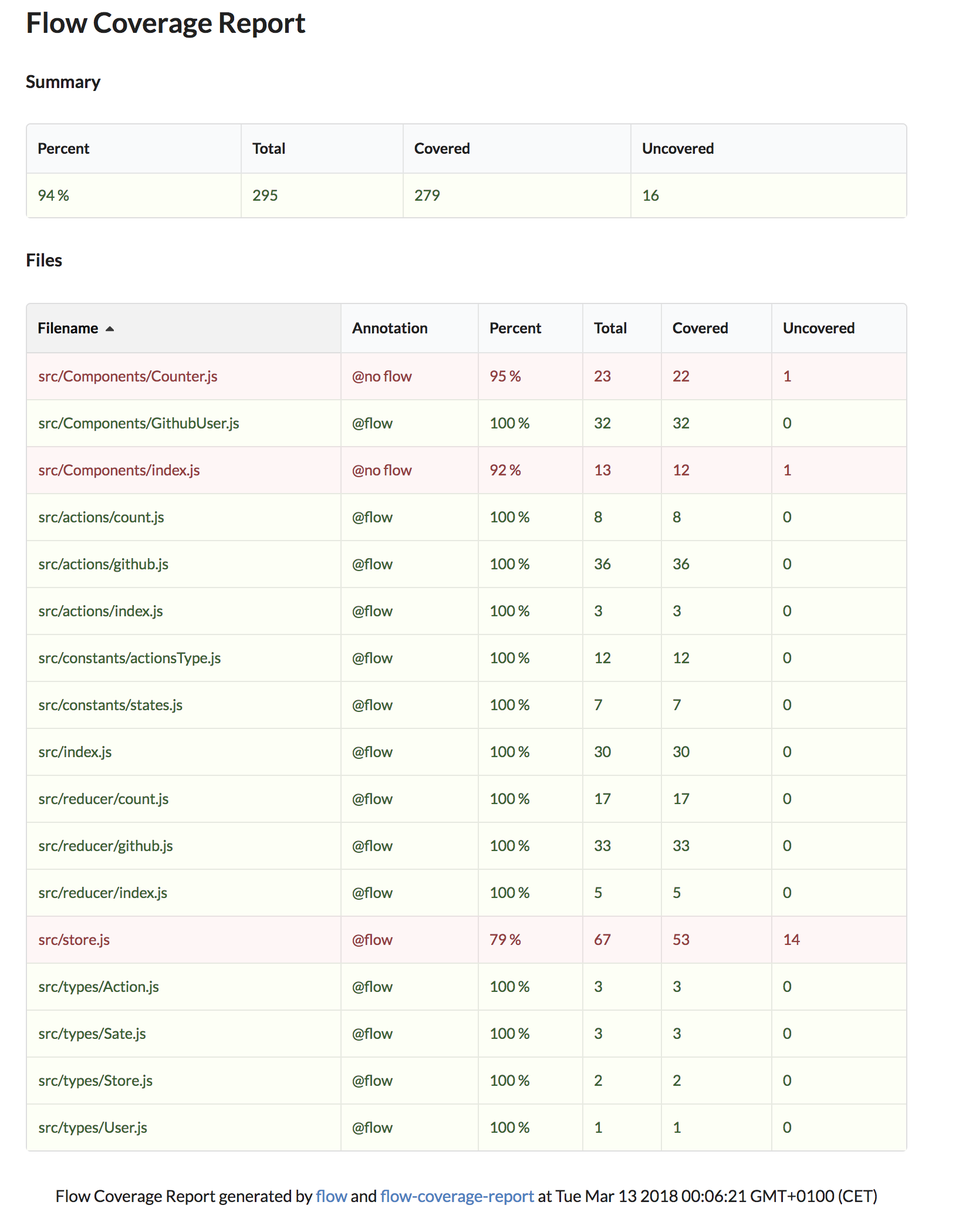
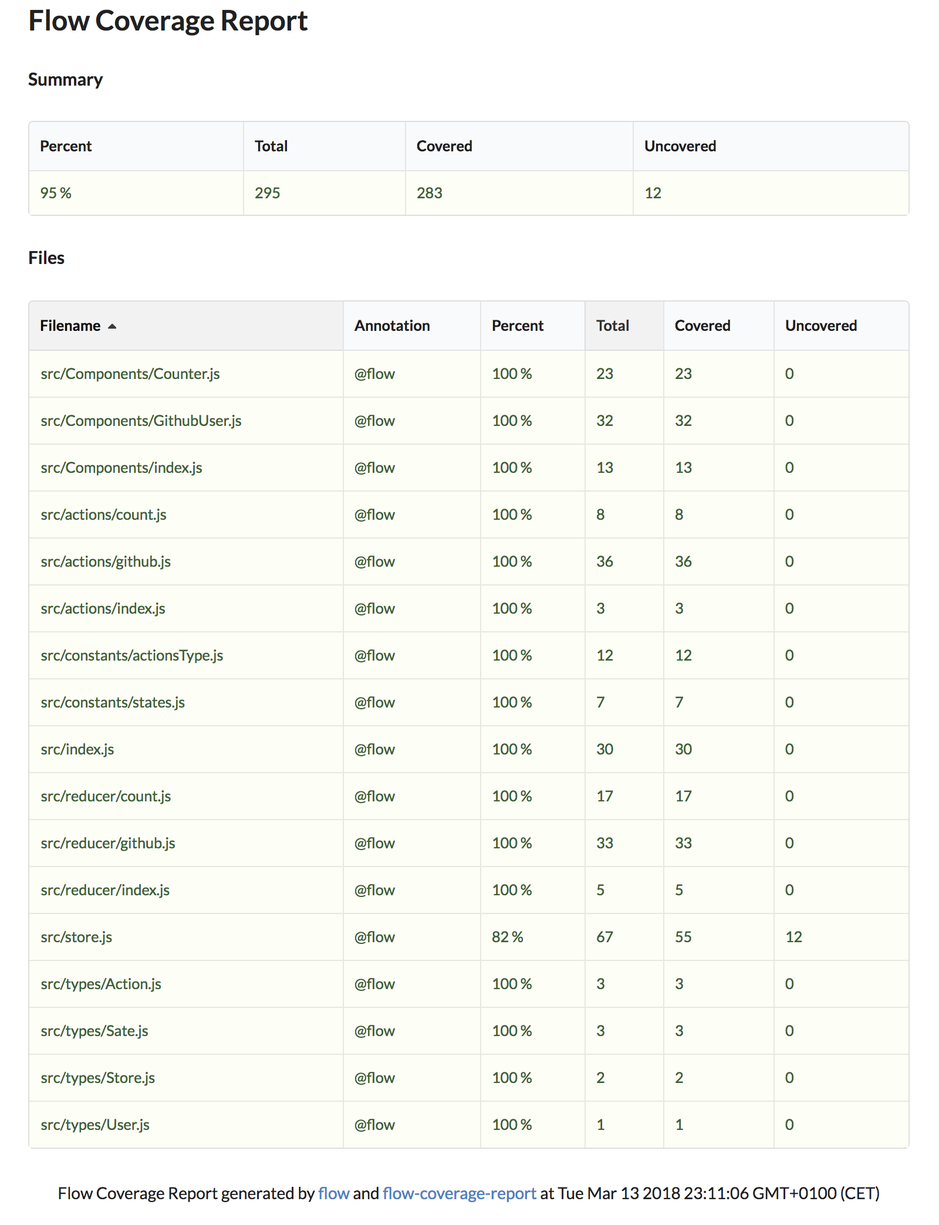
update flow config

diff --git a/flow-coverage/sourcefiles/src/store.js.html b/flow-coverage/sourcefiles/src/store.js.html
@@ -4,7 +4,7 @@
   border: 1px solid rgba(34,36,38,.15);
   height: auto;
 }
-</style></head><body><div class="ui grid container"><div class="row"><div class="twelve wide column"><h2 class="ui header"><a href="../../index.html" id="link-to-summary">Flow Coverage Report</a></h2></div></div><div class="row"><table class="ui small celled unstackable table"><thead><tr><th class="sorted ascending">Filename</th><th>Annotation</th><th>Percent</th><th>Total</th><th>Covered</th><th>Uncovered</th></tr></thead><tbody><tr class="negative"><td class="">src/store.js</td><td> @flow </td><td class=""><span>79 %</span></td><td> 67 </td><td> 53 </td><td> 14 </td></tr></tbody></table></div><div class="row ui one column centered grid"><div class="column" style="text-align:left;"><div class="row"><div class="ui form"><div class="fields"><div class="sixteen wide inline field"><select class="ui search dropdown uncovered-locations"><option value="">Uncovered Locations</option><option value="15">Start: 15,5 - End: 15,73</option><option value="15">Start: 15,11 - End: 15,22</option><option value="15">Start: 15,11 - End: 15,73</option><option value="23">Start: 23,32 - End: 23,66</option><option value="23">Start: 23,38 - End: 23,49</option><option value="23">Start: 23,38 - End: 23,66</option><option value="26">Start: 26,12 - End: 26,17</option><option value="26">Start: 26,35 - End: 26,40</option><option value="26">Start: 26,35 - End: 26,77</option><option value="27">Start: 27,9 - End: 27,14</option><option value="27">Start: 27,9 - End: 29,8</option><option value="32">Start: 32,53 - End: 32,57</option><option value="34">Start: 34,47 - End: 34,70</option><option value="37">Start: 37,5 - End: 40,6</option></select></div><div class="four wide inline field"><select class="ui search dropdown syntax-highlighting"><option value="es">ES6/ES7</option><option value="js">JavaScript</option><option value="no">None</option></select></div></div></div></div><textarea readonly="" id="file-content">// @flow
+</style></head><body><div class="ui grid container"><div class="row"><div class="twelve wide column"><h2 class="ui header"><a href="../../index.html" id="link-to-summary">Flow Coverage Report</a></h2></div></div><div class="row"><table class="ui small celled unstackable table"><thead><tr><th class="sorted ascending">Filename</th><th>Annotation</th><th>Percent</th><th>Total</th><th>Covered</th><th>Uncovered</th></tr></thead><tbody><tr class="positive"><td class="">src/store.js</td><td> @flow </td><td class=""><span>80 %</span></td><td> 67 </td><td> 54 </td><td> 13 </td></tr></tbody></table></div><div class="row ui one column centered grid"><div class="column" style="text-align:left;"><div class="row"><div class="ui form"><div class="fields"><div class="sixteen wide inline field"><select class="ui search dropdown uncovered-locations"><option value="">Uncovered Locations</option><option value="15">Start: 15,5 - End: 15,73</option><option value="15">Start: 15,11 - End: 15,22</option><option value="15">Start: 15,11 - End: 15,73</option><option value="23">Start: 23,32 - End: 23,66</option><option value="23">Start: 23,38 - End: 23,49</option><option value="23">Start: 23,38 - End: 23,66</option><option value="26">Start: 26,12 - End: 26,17</option><option value="26">Start: 26,35 - End: 26,40</option><option value="26">Start: 26,35 - End: 26,77</option><option value="27">Start: 27,9 - End: 27,14</option><option value="27">Start: 27,9 - End: 29,8</option><option value="32">Start: 32,53 - End: 32,57</option><option value="34">Start: 34,47 - End: 34,70</option></select></div><div class="four wide inline field"><select class="ui search dropdown syntax-highlighting"><option value="es">ES6/ES7</option><option value="js">JavaScript</option><option value="no">None</option></select></div></div></div></div><textarea readonly="" id="file-content">// @flow
 /* eslint-disable no-underscore-dangle, global-require */
 /* globals window */
 
@@ -50,4 +50,4 @@ export const configureStore: ConfigureStore = async () =&gt; {
 
   return store
 }
-</textarea></div></div><div class="row centered"><footer>Flow Coverage Report generated by<a href="https://flowtype.org"> flow </a>and<a href="https://github.com/rpl/flow-coverage-report"> flow-coverage-report </a>at Tue Mar 13 2018 00:06:21 GMT+0100 (CET)</footer></div></div><pre id="file-coverage-data" style="display:none;">{&quot;expressions&quot;:{&quot;covered_count&quot;:53,&quot;uncovered_count&quot;:14,&quot;uncovered_locs&quot;:[{&quot;source&quot;:&quot;/Users/igoreschalier/projects/RNredux/src/store.js&quot;,&quot;type&quot;:&quot;SourceFile&quot;,&quot;start&quot;:{&quot;line&quot;:15,&quot;column&quot;:5,&quot;offset&quot;:395},&quot;end&quot;:{&quot;line&quot;:15,&quot;column&quot;:73,&quot;offset&quot;:464}},{&quot;source&quot;:&quot;/Users/igoreschalier/projects/RNredux/src/store.js&quot;,&quot;type&quot;:&quot;SourceFile&quot;,&quot;start&quot;:{&quot;line&quot;:15,&quot;column&quot;:11,&quot;offset&quot;:401},&quot;end&quot;:{&quot;line&quot;:15,&quot;column&quot;:22,&quot;offset&quot;:413}},{&quot;source&quot;:&quot;/Users/igoreschalier/projects/RNredux/src/store.js&quot;,&quot;type&quot;:&quot;SourceFile&quot;,&quot;start&quot;:{&quot;line&quot;:15,&quot;column&quot;:11,&quot;offset&quot;:401},&quot;end&quot;:{&quot;line&quot;:15,&quot;column&quot;:73,&quot;offset&quot;:464}},{&quot;source&quot;:&quot;/Users/igoreschalier/projects/RNredux/src/store.js&quot;,&quot;type&quot;:&quot;SourceFile&quot;,&quot;start&quot;:{&quot;line&quot;:23,&quot;column&quot;:32,&quot;offset&quot;:647},&quot;end&quot;:{&quot;line&quot;:23,&quot;column&quot;:66,&quot;offset&quot;:682}},{&quot;source&quot;:&quot;/Users/igoreschalier/projects/RNredux/src/store.js&quot;,&quot;type&quot;:&quot;SourceFile&quot;,&quot;start&quot;:{&quot;line&quot;:23,&quot;column&quot;:38,&quot;offset&quot;:653},&quot;end&quot;:{&quot;line&quot;:23,&quot;column&quot;:49,&quot;offset&quot;:665}},{&quot;source&quot;:&quot;/Users/igoreschalier/projects/RNredux/src/store.js&quot;,&quot;type&quot;:&quot;SourceFile&quot;,&quot;start&quot;:{&quot;line&quot;:23,&quot;column&quot;:38,&quot;offset&quot;:653},&quot;end&quot;:{&quot;line&quot;:23,&quot;column&quot;:66,&quot;offset&quot;:682}},{&quot;source&quot;:&quot;/Users/igoreschalier/projects/RNredux/src/store.js&quot;,&quot;type&quot;:&quot;SourceFile&quot;,&quot;start&quot;:{&quot;line&quot;:26,&quot;column&quot;:12,&quot;offset&quot;:722},&quot;end&quot;:{&quot;line&quot;:26,&quot;column&quot;:17,&quot;offset&quot;:728}},{&quot;source&quot;:&quot;/Users/igoreschalier/projects/RNredux/src/store.js&quot;,&quot;type&quot;:&quot;SourceFile&quot;,&quot;start&quot;:{&quot;line&quot;:26,&quot;column&quot;:35,&quot;offset&quot;:745},&quot;end&quot;:{&quot;line&quot;:26,&quot;column&quot;:40,&quot;offset&quot;:751}},{&quot;source&quot;:&quot;/Users/igoreschalier/projects/RNredux/src/store.js&quot;,&quot;type&quot;:&quot;SourceFile&quot;,&quot;start&quot;:{&quot;line&quot;:26,&quot;column&quot;:35,&quot;offset&quot;:745},&quot;end&quot;:{&quot;line&quot;:26,&quot;column&quot;:77,&quot;offset&quot;:788}},{&quot;source&quot;:&quot;/Users/igoreschalier/projects/RNredux/src/store.js&quot;,&quot;type&quot;:&quot;SourceFile&quot;,&quot;start&quot;:{&quot;line&quot;:27,&quot;column&quot;:9,&quot;offset&quot;:797},&quot;end&quot;:{&quot;line&quot;:27,&quot;column&quot;:14,&quot;offset&quot;:803}},{&quot;source&quot;:&quot;/Users/igoreschalier/projects/RNredux/src/store.js&quot;,&quot;type&quot;:&quot;SourceFile&quot;,&quot;start&quot;:{&quot;line&quot;:27,&quot;column&quot;:9,&quot;offset&quot;:797},&quot;end&quot;:{&quot;line&quot;:29,&quot;column&quot;:8,&quot;offset&quot;:949}},{&quot;source&quot;:&quot;/Users/igoreschalier/projects/RNredux/src/store.js&quot;,&quot;type&quot;:&quot;SourceFile&quot;,&quot;start&quot;:{&quot;line&quot;:32,&quot;column&quot;:53,&quot;offset&quot;:1019},&quot;end&quot;:{&quot;line&quot;:32,&quot;column&quot;:57,&quot;offset&quot;:1024}},{&quot;source&quot;:&quot;/Users/igoreschalier/projects/RNredux/src/store.js&quot;,&quot;type&quot;:&quot;SourceFile&quot;,&quot;start&quot;:{&quot;line&quot;:34,&quot;column&quot;:47,&quot;offset&quot;:1074},&quot;end&quot;:{&quot;line&quot;:34,&quot;column&quot;:70,&quot;offset&quot;:1098}},{&quot;source&quot;:&quot;/Users/igoreschalier/projects/RNredux/src/store.js&quot;,&quot;type&quot;:&quot;SourceFile&quot;,&quot;start&quot;:{&quot;line&quot;:37,&quot;column&quot;:5,&quot;offset&quot;:1140},&quot;end&quot;:{&quot;line&quot;:40,&quot;column&quot;:6,&quot;offset&quot;:1275}}]},&quot;filename&quot;:&quot;src/store.js&quot;,&quot;annotation&quot;:&quot;flow&quot;,&quot;percent&quot;:79}</pre></body></html>
+</textarea></div></div><div class="row centered"><footer>Flow Coverage Report generated by<a href="https://flowtype.org"> flow </a>and<a href="https://github.com/rpl/flow-coverage-report"> flow-coverage-report </a>at Sun Mar 18 2018 08:42:35 GMT+0100 (CET)</footer></div></div><pre id="file-coverage-data" style="display:none;">{&quot;expressions&quot;:{&quot;covered_count&quot;:54,&quot;uncovered_count&quot;:13,&quot;uncovered_locs&quot;:[{&quot;source&quot;:&quot;/Users/igoreschalier/projects/RNredux/src/store.js&quot;,&quot;type&quot;:&quot;SourceFile&quot;,&quot;start&quot;:{&quot;line&quot;:15,&quot;column&quot;:5,&quot;offset&quot;:395},&quot;end&quot;:{&quot;line&quot;:15,&quot;column&quot;:73,&quot;offset&quot;:464}},{&quot;source&quot;:&quot;/Users/igoreschalier/projects/RNredux/src/store.js&quot;,&quot;type&quot;:&quot;SourceFile&quot;,&quot;start&quot;:{&quot;line&quot;:15,&quot;column&quot;:11,&quot;offset&quot;:401},&quot;end&quot;:{&quot;line&quot;:15,&quot;column&quot;:22,&quot;offset&quot;:413}},{&quot;source&quot;:&quot;/Users/igoreschalier/projects/RNredux/src/store.js&quot;,&quot;type&quot;:&quot;SourceFile&quot;,&quot;start&quot;:{&quot;line&quot;:15,&quot;column&quot;:11,&quot;offset&quot;:401},&quot;end&quot;:{&quot;line&quot;:15,&quot;column&quot;:73,&quot;offset&quot;:464}},{&quot;source&quot;:&quot;/Users/igoreschalier/projects/RNredux/src/store.js&quot;,&quot;type&quot;:&quot;SourceFile&quot;,&quot;start&quot;:{&quot;line&quot;:23,&quot;column&quot;:32,&quot;offset&quot;:647},&quot;end&quot;:{&quot;line&quot;:23,&quot;column&quot;:66,&quot;offset&quot;:682}},{&quot;source&quot;:&quot;/Users/igoreschalier/projects/RNredux/src/store.js&quot;,&quot;type&quot;:&quot;SourceFile&quot;,&quot;start&quot;:{&quot;line&quot;:23,&quot;column&quot;:38,&quot;offset&quot;:653},&quot;end&quot;:{&quot;line&quot;:23,&quot;column&quot;:49,&quot;offset&quot;:665}},{&quot;source&quot;:&quot;/Users/igoreschalier/projects/RNredux/src/store.js&quot;,&quot;type&quot;:&quot;SourceFile&quot;,&quot;start&quot;:{&quot;line&quot;:23,&quot;column&quot;:38,&quot;offset&quot;:653},&quot;end&quot;:{&quot;line&quot;:23,&quot;column&quot;:66,&quot;offset&quot;:682}},{&quot;source&quot;:&quot;/Users/igoreschalier/projects/RNredux/src/store.js&quot;,&quot;type&quot;:&quot;SourceFile&quot;,&quot;start&quot;:{&quot;line&quot;:26,&quot;column&quot;:12,&quot;offset&quot;:722},&quot;end&quot;:{&quot;line&quot;:26,&quot;column&quot;:17,&quot;offset&quot;:728}},{&quot;source&quot;:&quot;/Users/igoreschalier/projects/RNredux/src/store.js&quot;,&quot;type&quot;:&quot;SourceFile&quot;,&quot;start&quot;:{&quot;line&quot;:26,&quot;column&quot;:35,&quot;offset&quot;:745},&quot;end&quot;:{&quot;line&quot;:26,&quot;column&quot;:40,&quot;offset&quot;:751}},{&quot;source&quot;:&quot;/Users/igoreschalier/projects/RNredux/src/store.js&quot;,&quot;type&quot;:&quot;SourceFile&quot;,&quot;start&quot;:{&quot;line&quot;:26,&quot;column&quot;:35,&quot;offset&quot;:745},&quot;end&quot;:{&quot;line&quot;:26,&quot;column&quot;:77,&quot;offset&quot;:788}},{&quot;source&quot;:&quot;/Users/igoreschalier/projects/RNredux/src/store.js&quot;,&quot;type&quot;:&quot;SourceFile&quot;,&quot;start&quot;:{&quot;line&quot;:27,&quot;column&quot;:9,&quot;offset&quot;:797},&quot;end&quot;:{&quot;line&quot;:27,&quot;column&quot;:14,&quot;offset&quot;:803}},{&quot;source&quot;:&quot;/Users/igoreschalier/projects/RNredux/src/store.js&quot;,&quot;type&quot;:&quot;SourceFile&quot;,&quot;start&quot;:{&quot;line&quot;:27,&quot;column&quot;:9,&quot;offset&quot;:797},&quot;end&quot;:{&quot;line&quot;:29,&quot;column&quot;:8,&quot;offset&quot;:949}},{&quot;source&quot;:&quot;/Users/igoreschalier/projects/RNredux/src/store.js&quot;,&quot;type&quot;:&quot;SourceFile&quot;,&quot;start&quot;:{&quot;line&quot;:32,&quot;column&quot;:53,&quot;offset&quot;:1019},&quot;end&quot;:{&quot;line&quot;:32,&quot;column&quot;:57,&quot;offset&quot;:1024}},{&quot;source&quot;:&quot;/Users/igoreschalier/projects/RNredux/src/store.js&quot;,&quot;type&quot;:&quot;SourceFile&quot;,&quot;start&quot;:{&quot;line&quot;:34,&quot;column&quot;:47,&quot;offset&quot;:1074},&quot;end&quot;:{&quot;line&quot;:34,&quot;column&quot;:70,&quot;offset&quot;:1098}}]},&quot;filename&quot;:&quot;src/store.js&quot;,&quot;annotation&quot;:&quot;flow&quot;,&quot;percent&quot;:80}</pre></body></html>

diff --git a/flow-coverage/index.html b/flow-coverage/index.html
@@ -4,4 +4,4 @@
   border: 1px solid rgba(34,36,38,.15);
   height: auto;
 }
-</style></head><body><div class="ui grid container"><div class="row"><h2>Flow Coverage Report</h2></div><div class="row"><h4 class="ui header">Summary</h4><table class="ui small celled table"><thead><tr><th>Percent</th><th>Total</th><th>Covered</th><th>Uncovered</th></tr></thead><tbody><tr class="positive"><td>94 %</td><td>295</td><td>279</td><td>16</td></tr></tbody></table></div><div class="row"><h4 class="ui header">Files</h4><table id="files" class="ui small celled table sortable"><thead><tr><th class="sorted ascending">Filename</th><th>Annotation</th><th>Percent</th><th>Total</th><th>Covered</th><th>Uncovered</th></tr></thead><tbody><tr class="negative"><td class="selectable"><a href="sourcefiles/src/Components/Counter.js.html">src/Components/Counter.js</a></td><td> @no flow </td><td class=""><span>95 %</span></td><td> 23 </td><td> 22 </td><td> 1 </td></tr><tr class="positive"><td class="selectable"><a href="sourcefiles/src/Components/GithubUser.js.html">src/Components/GithubUser.js</a></td><td> @flow </td><td class=""><span>100 %</span></td><td> 32 </td><td> 32 </td><td> 0 </td></tr><tr class="negative"><td class="selectable"><a href="sourcefiles/src/Components/index.js.html">src/Components/index.js</a></td><td> @no flow </td><td class=""><span>92 %</span></td><td> 13 </td><td> 12 </td><td> 1 </td></tr><tr class="positive"><td class="selectable"><a href="sourcefiles/src/actions/count.js.html">src/actions/count.js</a></td><td> @flow </td><td class=""><span>100 %</span></td><td> 8 </td><td> 8 </td><td> 0 </td></tr><tr class="positive"><td class="selectable"><a href="sourcefiles/src/actions/github.js.html">src/actions/github.js</a></td><td> @flow </td><td class=""><span>100 %</span></td><td> 36 </td><td> 36 </td><td> 0 </td></tr><tr class="positive"><td class="selectable"><a href="sourcefiles/src/actions/index.js.html">src/actions/index.js</a></td><td> @flow </td><td class=""><span>100 %</span></td><td> 3 </td><td> 3 </td><td> 0 </td></tr><tr class="positive"><td class="selectable"><a href="sourcefiles/src/constants/actionsType.js.html">src/constants/actionsType.js</a></td><td> @flow </td><td class=""><span>100 %</span></td><td> 12 </td><td> 12 </td><td> 0 </td></tr><tr class="positive"><td class="selectable"><a href="sourcefiles/src/constants/states.js.html">src/constants/states.js</a></td><td> @flow </td><td class=""><span>100 %</span></td><td> 7 </td><td> 7 </td><td> 0 </td></tr><tr class="positive"><td class="selectable"><a href="sourcefiles/src/index.js.html">src/index.js</a></td><td> @flow </td><td class=""><span>100 %</span></td><td> 30 </td><td> 30 </td><td> 0 </td></tr><tr class="positive"><td class="selectable"><a href="sourcefiles/src/reducer/count.js.html">src/reducer/count.js</a></td><td> @flow </td><td class=""><span>100 %</span></td><td> 17 </td><td> 17 </td><td> 0 </td></tr><tr class="positive"><td class="selectable"><a href="sourcefiles/src/reducer/github.js.html">src/reducer/github.js</a></td><td> @flow </td><td class=""><span>100 %</span></td><td> 33 </td><td> 33 </td><td> 0 </td></tr><tr class="positive"><td class="selectable"><a href="sourcefiles/src/reducer/index.js.html">src/reducer/index.js</a></td><td> @flow </td><td class=""><span>100 %</span></td><td> 5 </td><td> 5 </td><td> 0 </td></tr><tr class="negative"><td class="selectable"><a href="sourcefiles/src/store.js.html">src/store.js</a></td><td> @flow </td><td class=""><span>79 %</span></td><td> 67 </td><td> 53 </td><td> 14 </td></tr><tr class="positive"><td class="selectable"><a href="sourcefiles/src/types/Action.js.html">src/types/Action.js</a></td><td> @flow </td><td class=""><span>100 %</span></td><td> 3 </td><td> 3 </td><td> 0 </td></tr><tr class="positive"><td class="selectable"><a href="sourcefiles/src/types/Sate.js.html">src/types/Sate.js</a></td><td> @flow </td><td class=""><span>100 %</span></td><td> 3 </td><td> 3 </td><td> 0 </td></tr><tr class="positive"><td class="selectable"><a href="sourcefiles/src/types/Store.js.html">src/types/Store.js</a></td><td> @flow </td><td class=""><span>100 %</span></td><td> 2 </td><td> 2 </td><td> 0 </td></tr><tr class="positive"><td class="selectable"><a href="sourcefiles/src/types/User.js.html">src/types/User.js</a></td><td> @flow </td><td class=""><span>100 %</span></td><td> 1 </td><td> 1 </td><td> 0 </td></tr></tbody></table></div><div class="row centered"><footer>Flow Coverage Report generated by<a href="https://flowtype.org"> flow </a>and<a href="https://github.com/rpl/flow-coverage-report"> flow-coverage-report </a>at Tue Mar 13 2018 00:06:21 GMT+0100 (CET)</footer></div></div></body></html>
+</style></head><body><div class="ui grid container"><div class="row"><h2>Flow Coverage Report</h2></div><div class="row"><h4 class="ui header">Summary</h4><table class="ui small celled table"><thead><tr><th>Percent</th><th>Total</th><th>Covered</th><th>Uncovered</th></tr></thead><tbody><tr class="positive"><td>95 %</td><td>294</td><td>281</td><td>13</td></tr></tbody></table></div><div class="row"><h4 class="ui header">Files</h4><table id="files" class="ui small celled table sortable"><thead><tr><th class="sorted ascending">Filename</th><th>Annotation</th><th>Percent</th><th>Total</th><th>Covered</th><th>Uncovered</th></tr></thead><tbody><tr class="positive"><td class="selectable"><a href="sourcefiles/src/Components/Counter.js.html">src/Components/Counter.js</a></td><td> @flow </td><td class=""><span>100 %</span></td><td> 23 </td><td> 23 </td><td> 0 </td></tr><tr class="positive"><td class="selectable"><a href="sourcefiles/src/Components/GithubUser.js.html">src/Components/GithubUser.js</a></td><td> @flow </td><td class=""><span>100 %</span></td><td> 32 </td><td> 32 </td><td> 0 </td></tr><tr class="positive"><td class="selectable"><a href="sourcefiles/src/Components/index.js.html">src/Components/index.js</a></td><td> @flow </td><td class=""><span>100 %</span></td><td> 13 </td><td> 13 </td><td> 0 </td></tr><tr class="positive"><td class="selectable"><a href="sourcefiles/src/actions/count.js.html">src/actions/count.js</a></td><td> @flow </td><td class=""><span>100 %</span></td><td> 8 </td><td> 8 </td><td> 0 </td></tr><tr class="positive"><td class="selectable"><a href="sourcefiles/src/actions/github.js.html">src/actions/github.js</a></td><td> @flow </td><td class=""><span>100 %</span></td><td> 35 </td><td> 35 </td><td> 0 </td></tr><tr class="positive"><td class="selectable"><a href="sourcefiles/src/actions/index.js.html">src/actions/index.js</a></td><td> @flow </td><td class=""><span>100 %</span></td><td> 3 </td><td> 3 </td><td> 0 </td></tr><tr class="positive"><td class="selectable"><a href="sourcefiles/src/constants/actionsType.js.html">src/constants/actionsType.js</a></td><td> @flow </td><td class=""><span>100 %</span></td><td> 12 </td><td> 12 </td><td> 0 </td></tr><tr class="positive"><td class="selectable"><a href="sourcefiles/src/constants/states.js.html">src/constants/states.js</a></td><td> @flow </td><td class=""><span>100 %</span></td><td> 7 </td><td> 7 </td><td> 0 </td></tr><tr class="positive"><td class="selectable"><a href="sourcefiles/src/index.js.html">src/index.js</a></td><td> @flow </td><td class=""><span>100 %</span></td><td> 30 </td><td> 30 </td><td> 0 </td></tr><tr class="positive"><td class="selectable"><a href="sourcefiles/src/reducer/count.js.html">src/reducer/count.js</a></td><td> @flow </td><td class=""><span>100 %</span></td><td> 17 </td><td> 17 </td><td> 0 </td></tr><tr class="positive"><td class="selectable"><a href="sourcefiles/src/reducer/github.js.html">src/reducer/github.js</a></td><td> @flow </td><td class=""><span>100 %</span></td><td> 33 </td><td> 33 </td><td> 0 </td></tr><tr class="positive"><td class="selectable"><a href="sourcefiles/src/reducer/index.js.html">src/reducer/index.js</a></td><td> @flow </td><td class=""><span>100 %</span></td><td> 5 </td><td> 5 </td><td> 0 </td></tr><tr class="positive"><td class="selectable"><a href="sourcefiles/src/store.js.html">src/store.js</a></td><td> @flow </td><td class=""><span>80 %</span></td><td> 67 </td><td> 54 </td><td> 13 </td></tr><tr class="positive"><td class="selectable"><a href="sourcefiles/src/types/Action.js.html">src/types/Action.js</a></td><td> @flow </td><td class=""><span>100 %</span></td><td> 3 </td><td> 3 </td><td> 0 </td></tr><tr class="positive"><td class="selectable"><a href="sourcefiles/src/types/Sate.js.html">src/types/Sate.js</a></td><td> @flow </td><td class=""><span>100 %</span></td><td> 3 </td><td> 3 </td><td> 0 </td></tr><tr class="positive"><td class="selectable"><a href="sourcefiles/src/types/Store.js.html">src/types/Store.js</a></td><td> @flow </td><td class=""><span>100 %</span></td><td> 2 </td><td> 2 </td><td> 0 </td></tr><tr class="positive"><td class="selectable"><a href="sourcefiles/src/types/User.js.html">src/types/User.js</a></td><td> @flow </td><td class=""><span>100 %</span></td><td> 1 </td><td> 1 </td><td> 0 </td></tr></tbody></table></div><div class="row centered"><footer>Flow Coverage Report generated by<a href="https://flowtype.org"> flow </a>and<a href="https://github.com/rpl/flow-coverage-report"> flow-coverage-report </a>at Sun Mar 18 2018 08:42:35 GMT+0100 (CET)</footer></div></div></body></html>

diff --git a/flow-coverage/sourcefiles/src/Components/Counter.js.html b/flow-coverage/sourcefiles/src/Components/Counter.js.html
@@ -4,16 +4,19 @@
   border: 1px solid rgba(34,36,38,.15);
   height: auto;
 }
-</style></head><body><div class="ui grid container"><div class="row"><div class="twelve wide column"><h2 class="ui header"><a href="../../../index.html" id="link-to-summary">Flow Coverage Report</a></h2></div></div><div class="row"><table class="ui small celled unstackable table"><thead><tr><th class="sorted ascending">Filename</th><th>Annotation</th><th>Percent</th><th>Total</th><th>Covered</th><th>Uncovered</th></tr></thead><tbody><tr class="negative"><td class="">src/Components/Counter.js</td><td> @no flow </td><td class=""><span>95 %</span></td><td> 23 </td><td> 22 </td><td> 1 </td></tr></tbody></table></div><div class="row ui one column centered grid"><div class="column" style="text-align:left;"><div class="row"><div class="ui form"><div class="fields"><div class="sixteen wide inline field"><select class="ui search dropdown uncovered-locations"><option value="">Uncovered Locations</option><option value="13">Start: 13,7 - End: 13,13</option></select></div><div class="four wide inline field"><select class="ui search dropdown syntax-highlighting"><option value="es">ES6/ES7</option><option value="js">JavaScript</option><option value="no">None</option></select></div></div></div></div><textarea readonly="" id="file-content">import React from &#x27;react&#x27;
+</style></head><body><div class="ui grid container"><div class="row"><div class="twelve wide column"><h2 class="ui header"><a href="../../../index.html" id="link-to-summary">Flow Coverage Report</a></h2></div></div><div class="row"><table class="ui small celled unstackable table"><thead><tr><th class="sorted ascending">Filename</th><th>Annotation</th><th>Percent</th><th>Total</th><th>Covered</th><th>Uncovered</th></tr></thead><tbody><tr class="positive"><td class="">src/Components/Counter.js</td><td> @flow </td><td class=""><span>100 %</span></td><td> 23 </td><td> 23 </td><td> 0 </td></tr></tbody></table></div><div class="row ui one column centered grid"><div class="column" style="text-align:left;"><div class="row"><div class="ui form"><div class="fields"><div class="sixteen wide inline field"><select class="ui search dropdown uncovered-locations"><option value="">Uncovered Locations</option></select></div><div class="four wide inline field"><select class="ui search dropdown syntax-highlighting"><option value="es">ES6/ES7</option><option value="js">JavaScript</option><option value="no">None</option></select></div></div></div></div><textarea readonly="" id="file-content">// @flow
+
+import React from &#x27;react&#x27;
 import { View, Text, Button } from &#x27;react-native&#x27;
 import { connect } from &#x27;react-redux&#x27;
 import actions from &#x27;../actions&#x27;
 import type { State } from &#x27;../types/Sate&#x27;
+import type { GenericAction } from &#x27;../types/Action&#x27;
 
 type Props = {
   count: number,
-  increment: () =&gt; void,
-  decrement: () =&gt; void,
+  increment: () =&gt; GenericAction,
+  decrement: () =&gt; GenericAction,
 }
 
 const Counter = ({ count, increment, decrement }: Props) =&gt; (
@@ -32,4 +35,4 @@ export default connect(
     ...actions,
   },
 )(Counter)
-</textarea></div></div><div class="row centered"><footer>Flow Coverage Report generated by<a href="https://flowtype.org"> flow </a>and<a href="https://github.com/rpl/flow-coverage-report"> flow-coverage-report </a>at Tue Mar 13 2018 00:06:21 GMT+0100 (CET)</footer></div></div><pre id="file-coverage-data" style="display:none;">{&quot;expressions&quot;:{&quot;covered_count&quot;:22,&quot;uncovered_count&quot;:1,&quot;uncovered_locs&quot;:[{&quot;source&quot;:&quot;/Users/igoreschalier/projects/RNredux/src/Components/Counter.js&quot;,&quot;type&quot;:&quot;SourceFile&quot;,&quot;start&quot;:{&quot;line&quot;:13,&quot;column&quot;:7,&quot;offset&quot;:282},&quot;end&quot;:{&quot;line&quot;:13,&quot;column&quot;:13,&quot;offset&quot;:289}}]},&quot;filename&quot;:&quot;src/Components/Counter.js&quot;,&quot;annotation&quot;:&quot;no flow&quot;,&quot;percent&quot;:95}</pre></body></html>
+</textarea></div></div><div class="row centered"><footer>Flow Coverage Report generated by<a href="https://flowtype.org"> flow </a>and<a href="https://github.com/rpl/flow-coverage-report"> flow-coverage-report </a>at Sun Mar 18 2018 08:42:35 GMT+0100 (CET)</footer></div></div><pre id="file-coverage-data" style="display:none;">{&quot;expressions&quot;:{&quot;covered_count&quot;:23,&quot;uncovered_count&quot;:0,&quot;uncovered_locs&quot;:[]},&quot;filename&quot;:&quot;src/Components/Counter.js&quot;,&quot;annotation&quot;:&quot;flow&quot;,&quot;percent&quot;:100}</pre></body></html>

diff --git a/flow-coverage/sourcefiles/src/actions/github.js.html b/flow-coverage/sourcefiles/src/actions/github.js.html
@@ -4,7 +4,7 @@
   border: 1px solid rgba(34,36,38,.15);
   height: auto;
 }
-</style></head><body><div class="ui grid container"><div class="row"><div class="twelve wide column"><h2 class="ui header"><a href="../../../index.html" id="link-to-summary">Flow Coverage Report</a></h2></div></div><div class="row"><table class="ui small celled unstackable table"><thead><tr><th class="sorted ascending">Filename</th><th>Annotation</th><th>Percent</th><th>Total</th><th>Covered</th><th>Uncovered</th></tr></thead><tbody><tr class="positive"><td class="">src/actions/github.js</td><td> @flow </td><td class=""><span>100 %</span></td><td> 36 </td><td> 36 </td><td> 0 </td></tr></tbody></table></div><div class="row ui one column centered grid"><div class="column" style="text-align:left;"><div class="row"><div class="ui form"><div class="fields"><div class="sixteen wide inline field"><select class="ui search dropdown uncovered-locations"><option value="">Uncovered Locations</option></select></div><div class="four wide inline field"><select class="ui search dropdown syntax-highlighting"><option value="es">ES6/ES7</option><option value="js">JavaScript</option><option value="no">None</option></select></div></div></div></div><textarea readonly="" id="file-content">// @flow
+</style></head><body><div class="ui grid container"><div class="row"><div class="twelve wide column"><h2 class="ui header"><a href="../../../index.html" id="link-to-summary">Flow Coverage Report</a></h2></div></div><div class="row"><table class="ui small celled unstackable table"><thead><tr><th class="sorted ascending">Filename</th><th>Annotation</th><th>Percent</th><th>Total</th><th>Covered</th><th>Uncovered</th></tr></thead><tbody><tr class="positive"><td class="">src/actions/github.js</td><td> @flow </td><td class=""><span>100 %</span></td><td> 35 </td><td> 35 </td><td> 0 </td></tr></tbody></table></div><div class="row ui one column centered grid"><div class="column" style="text-align:left;"><div class="row"><div class="ui form"><div class="fields"><div class="sixteen wide inline field"><select class="ui search dropdown uncovered-locations"><option value="">Uncovered Locations</option></select></div><div class="four wide inline field"><select class="ui search dropdown syntax-highlighting"><option value="es">ES6/ES7</option><option value="js">JavaScript</option><option value="no">None</option></select></div></div></div></div><textarea readonly="" id="file-content">// @flow
 
 import {
   GITHUB_USER_LOADING,
@@ -12,10 +12,11 @@ import {
   GITHUB_USER_ERROR,
   GITHUB_USER_CLEAR,
 } from &#x27;../constants/actionsType&#x27;
+import type { GenericAction, GithubAction } from &#x27;../types/Action&#x27;
 
-type Action = { +type: string } | { +type: string, user: {} }
-
-type FetchGithubUser = (username: string) =&gt; (dispatch: (Action) =&gt; void) =&gt; Promise&lt;any&gt;
+export type FetchGithubUser = (
+  username: string,
+) =&gt; (dispatch: (GithubAction | GenericAction) =&gt; void) =&gt; Promise&lt;any&gt;
 
 export const fetchGithubUser: FetchGithubUser = username =&gt; async (dispatch) =&gt; {
   dispatch({ type: GITHUB_USER_LOADING })
@@ -36,4 +37,4 @@ export const fetchGithubUser: FetchGithubUser = username =&gt; async (dispatch) 
 }
 
 export const clearGithubUser = () =&gt; ({ type: GITHUB_USER_CLEAR })
-</textarea></div></div><div class="row centered"><footer>Flow Coverage Report generated by<a href="https://flowtype.org"> flow </a>and<a href="https://github.com/rpl/flow-coverage-report"> flow-coverage-report </a>at Tue Mar 13 2018 00:06:21 GMT+0100 (CET)</footer></div></div><pre id="file-coverage-data" style="display:none;">{&quot;expressions&quot;:{&quot;covered_count&quot;:36,&quot;uncovered_count&quot;:0,&quot;uncovered_locs&quot;:[]},&quot;filename&quot;:&quot;src/actions/github.js&quot;,&quot;annotation&quot;:&quot;flow&quot;,&quot;percent&quot;:100}</pre></body></html>
+</textarea></div></div><div class="row centered"><footer>Flow Coverage Report generated by<a href="https://flowtype.org"> flow </a>and<a href="https://github.com/rpl/flow-coverage-report"> flow-coverage-report </a>at Sun Mar 18 2018 08:42:35 GMT+0100 (CET)</footer></div></div><pre id="file-coverage-data" style="display:none;">{&quot;expressions&quot;:{&quot;covered_count&quot;:35,&quot;uncovered_count&quot;:0,&quot;uncovered_locs&quot;:[]},&quot;filename&quot;:&quot;src/actions/github.js&quot;,&quot;annotation&quot;:&quot;flow&quot;,&quot;percent&quot;:100}</pre></body></html>

diff --git a/flow-coverage/sourcefiles/src/Components/index.js.html b/flow-coverage/sourcefiles/src/Components/index.js.html
@@ -4,7 +4,9 @@
   border: 1px solid rgba(34,36,38,.15);
   height: auto;
 }
-</style></head><body><div class="ui grid container"><div class="row"><div class="twelve wide column"><h2 class="ui header"><a href="../../../index.html" id="link-to-summary">Flow Coverage Report</a></h2></div></div><div class="row"><table class="ui small celled unstackable table"><thead><tr><th class="sorted ascending">Filename</th><th>Annotation</th><th>Percent</th><th>Total</th><th>Covered</th><th>Uncovered</th></tr></thead><tbody><tr class="negative"><td class="">src/Components/index.js</td><td> @no flow </td><td class=""><span>92 %</span></td><td> 13 </td><td> 12 </td><td> 1 </td></tr></tbody></table></div><div class="row ui one column centered grid"><div class="column" style="text-align:left;"><div class="row"><div class="ui form"><div class="fields"><div class="sixteen wide inline field"><select class="ui search dropdown uncovered-locations"><option value="">Uncovered Locations</option><option value="6">Start: 6,7 - End: 6,9</option></select></div><div class="four wide inline field"><select class="ui search dropdown syntax-highlighting"><option value="es">ES6/ES7</option><option value="js">JavaScript</option><option value="no">None</option></select></div></div></div></div><textarea readonly="" id="file-content">import React from &#x27;react&#x27;
+</style></head><body><div class="ui grid container"><div class="row"><div class="twelve wide column"><h2 class="ui header"><a href="../../../index.html" id="link-to-summary">Flow Coverage Report</a></h2></div></div><div class="row"><table class="ui small celled unstackable table"><thead><tr><th class="sorted ascending">Filename</th><th>Annotation</th><th>Percent</th><th>Total</th><th>Covered</th><th>Uncovered</th></tr></thead><tbody><tr class="positive"><td class="">src/Components/index.js</td><td> @flow </td><td class=""><span>100 %</span></td><td> 13 </td><td> 13 </td><td> 0 </td></tr></tbody></table></div><div class="row ui one column centered grid"><div class="column" style="text-align:left;"><div class="row"><div class="ui form"><div class="fields"><div class="sixteen wide inline field"><select class="ui search dropdown uncovered-locations"><option value="">Uncovered Locations</option></select></div><div class="four wide inline field"><select class="ui search dropdown syntax-highlighting"><option value="es">ES6/ES7</option><option value="js">JavaScript</option><option value="no">None</option></select></div></div></div></div><textarea readonly="" id="file-content">// @flow
+
+import React from &#x27;react&#x27;
 import { View, Image } from &#x27;react-native&#x27;
 import Counter from &#x27;./Counter&#x27;
 import GithubUser from &#x27;./GithubUser&#x27;
@@ -24,4 +26,4 @@ const App = () =&gt; (
 )
 
 export default App
-</textarea></div></div><div class="row centered"><footer>Flow Coverage Report generated by<a href="https://flowtype.org"> flow </a>and<a href="https://github.com/rpl/flow-coverage-report"> flow-coverage-report </a>at Tue Mar 13 2018 00:06:21 GMT+0100 (CET)</footer></div></div><pre id="file-coverage-data" style="display:none;">{&quot;expressions&quot;:{&quot;covered_count&quot;:12,&quot;uncovered_count&quot;:1,&quot;uncovered_locs&quot;:[{&quot;source&quot;:&quot;/Users/igoreschalier/projects/RNredux/src/Components/index.js&quot;,&quot;type&quot;:&quot;SourceFile&quot;,&quot;start&quot;:{&quot;line&quot;:6,&quot;column&quot;:7,&quot;offset&quot;:146},&quot;end&quot;:{&quot;line&quot;:6,&quot;column&quot;:9,&quot;offset&quot;:149}}]},&quot;filename&quot;:&quot;src/Components/index.js&quot;,&quot;annotation&quot;:&quot;no flow&quot;,&quot;percent&quot;:92}</pre></body></html>
+</textarea></div></div><div class="row centered"><footer>Flow Coverage Report generated by<a href="https://flowtype.org"> flow </a>and<a href="https://github.com/rpl/flow-coverage-report"> flow-coverage-report </a>at Sun Mar 18 2018 08:42:35 GMT+0100 (CET)</footer></div></div><pre id="file-coverage-data" style="display:none;">{&quot;expressions&quot;:{&quot;covered_count&quot;:13,&quot;uncovered_count&quot;:0,&quot;uncovered_locs&quot;:[]},&quot;filename&quot;:&quot;src/Components/index.js&quot;,&quot;annotation&quot;:&quot;flow&quot;,&quot;percent&quot;:100}</pre></body></html>

diff --git a/flow-coverage/sourcefiles/src/Components/GithubUser.js.html b/flow-coverage/sourcefiles/src/Components/GithubUser.js.html
@@ -10,14 +10,16 @@ import React from &#x27;react&#x27;
 import { View, Button, Text } from &#x27;react-native&#x27;
 import { connect } from &#x27;react-redux&#x27;
 import actions from &#x27;../actions&#x27;
+import type { FetchGithubUser } from &#x27;../actions/github&#x27;
 import type { State } from &#x27;../types/Sate&#x27;
+import type { GenericAction } from &#x27;../types/Action&#x27;
 
 type Props = {
   user: {
     login: string,
   },
-  fetchGithubUser: (username: string) =&gt; void,
-  clearGithubUser: () =&gt; void,
+  fetchGithubUser: FetchGithubUser,
+  clearGithubUser: () =&gt; GenericAction,
 }
 
 const GithubUser = ({ user, fetchGithubUser, clearGithubUser }: Props) =&gt; (
@@ -31,4 +33,4 @@ const GithubUser = ({ user, fetchGithubUser, clearGithubUser }: Props) =&gt; (
 export default connect(({ github }: State) =&gt; ({ user: github.user }), {
   ...actions,
 })(GithubUser)
-</textarea></div></div><div class="row centered"><footer>Flow Coverage Report generated by<a href="https://flowtype.org"> flow </a>and<a href="https://github.com/rpl/flow-coverage-report"> flow-coverage-report </a>at Tue Mar 13 2018 00:06:21 GMT+0100 (CET)</footer></div></div><pre id="file-coverage-data" style="display:none;">{&quot;expressions&quot;:{&quot;covered_count&quot;:32,&quot;uncovered_count&quot;:0,&quot;uncovered_locs&quot;:[]},&quot;filename&quot;:&quot;src/Components/GithubUser.js&quot;,&quot;annotation&quot;:&quot;flow&quot;,&quot;percent&quot;:100}</pre></body></html>
+</textarea></div></div><div class="row centered"><footer>Flow Coverage Report generated by<a href="https://flowtype.org"> flow </a>and<a href="https://github.com/rpl/flow-coverage-report"> flow-coverage-report </a>at Sun Mar 18 2018 08:42:35 GMT+0100 (CET)</footer></div></div><pre id="file-coverage-data" style="display:none;">{&quot;expressions&quot;:{&quot;covered_count&quot;:32,&quot;uncovered_count&quot;:0,&quot;uncovered_locs&quot;:[]},&quot;filename&quot;:&quot;src/Components/GithubUser.js&quot;,&quot;annotation&quot;:&quot;flow&quot;,&quot;percent&quot;:100}</pre></body></html>

diff --git a/flow-coverage/sourcefiles/src/constants/actionsType.js.html b/flow-coverage/sourcefiles/src/constants/actionsType.js.html
@@ -14,4 +14,4 @@ export const GITHUB_USER_SUCCESS: string = &#x27;FETCH/SUCCESS/GITHUB/USER&#x27;
 export const GITHUB_USER_ERROR: string = &#x27;FETCH/ERROR/GITHUB/USER&#x27;
 
 export const GITHUB_USER_CLEAR: string = &#x27;CLEAR/GITHUB/USER&#x27;
-</textarea></div></div><div class="row centered"><footer>Flow Coverage Report generated by<a href="https://flowtype.org"> flow </a>and<a href="https://github.com/rpl/flow-coverage-report"> flow-coverage-report </a>at Tue Mar 13 2018 00:06:21 GMT+0100 (CET)</footer></div></div><pre id="file-coverage-data" style="display:none;">{&quot;expressions&quot;:{&quot;covered_count&quot;:12,&quot;uncovered_count&quot;:0,&quot;uncovered_locs&quot;:[]},&quot;filename&quot;:&quot;src/constants/actionsType.js&quot;,&quot;annotation&quot;:&quot;flow&quot;,&quot;percent&quot;:100}</pre></body></html>
+</textarea></div></div><div class="row centered"><footer>Flow Coverage Report generated by<a href="https://flowtype.org"> flow </a>and<a href="https://github.com/rpl/flow-coverage-report"> flow-coverage-report </a>at Sun Mar 18 2018 08:42:35 GMT+0100 (CET)</footer></div></div><pre id="file-coverage-data" style="display:none;">{&quot;expressions&quot;:{&quot;covered_count&quot;:12,&quot;uncovered_count&quot;:0,&quot;uncovered_locs&quot;:[]},&quot;filename&quot;:&quot;src/constants/actionsType.js&quot;,&quot;annotation&quot;:&quot;flow&quot;,&quot;percent&quot;:100}</pre></body></html>

diff --git a/flow-coverage/sourcefiles/src/types/Store.js.html b/flow-coverage/sourcefiles/src/types/Store.js.html
@@ -13,4 +13,4 @@ import type { Action } from &#x27;./Action&#x27;
 // Use State type cause some error with flow-typed redux
 export type Store = ReduxStore&lt;{}, Action&gt;
 export type ConfigureStore = () =&gt; Promise&lt;Store&gt;
-</textarea></div></div><div class="row centered"><footer>Flow Coverage Report generated by<a href="https://flowtype.org"> flow </a>and<a href="https://github.com/rpl/flow-coverage-report"> flow-coverage-report </a>at Tue Mar 13 2018 00:06:21 GMT+0100 (CET)</footer></div></div><pre id="file-coverage-data" style="display:none;">{&quot;expressions&quot;:{&quot;covered_count&quot;:2,&quot;uncovered_count&quot;:0,&quot;uncovered_locs&quot;:[]},&quot;filename&quot;:&quot;src/types/Store.js&quot;,&quot;annotation&quot;:&quot;flow&quot;,&quot;percent&quot;:100}</pre></body></html>
+</textarea></div></div><div class="row centered"><footer>Flow Coverage Report generated by<a href="https://flowtype.org"> flow </a>and<a href="https://github.com/rpl/flow-coverage-report"> flow-coverage-report </a>at Sun Mar 18 2018 08:42:35 GMT+0100 (CET)</footer></div></div><pre id="file-coverage-data" style="display:none;">{&quot;expressions&quot;:{&quot;covered_count&quot;:2,&quot;uncovered_count&quot;:0,&quot;uncovered_locs&quot;:[]},&quot;filename&quot;:&quot;src/types/Store.js&quot;,&quot;annotation&quot;:&quot;flow&quot;,&quot;percent&quot;:100}</pre></body></html>

diff --git a/flow-coverage/sourcefiles/src/types/Action.js.html b/flow-coverage/sourcefiles/src/types/Action.js.html
@@ -12,4 +12,4 @@ export type GenericAction = { type: string }
 export type GithubAction = { type: string, user: User }
 
 export type Action = GithubAction | GenericAction
-</textarea></div></div><div class="row centered"><footer>Flow Coverage Report generated by<a href="https://flowtype.org"> flow </a>and<a href="https://github.com/rpl/flow-coverage-report"> flow-coverage-report </a>at Tue Mar 13 2018 00:06:21 GMT+0100 (CET)</footer></div></div><pre id="file-coverage-data" style="display:none;">{&quot;expressions&quot;:{&quot;covered_count&quot;:3,&quot;uncovered_count&quot;:0,&quot;uncovered_locs&quot;:[]},&quot;filename&quot;:&quot;src/types/Action.js&quot;,&quot;annotation&quot;:&quot;flow&quot;,&quot;percent&quot;:100}</pre></body></html>
+</textarea></div></div><div class="row centered"><footer>Flow Coverage Report generated by<a href="https://flowtype.org"> flow </a>and<a href="https://github.com/rpl/flow-coverage-report"> flow-coverage-report </a>at Sun Mar 18 2018 08:42:35 GMT+0100 (CET)</footer></div></div><pre id="file-coverage-data" style="display:none;">{&quot;expressions&quot;:{&quot;covered_count&quot;:3,&quot;uncovered_count&quot;:0,&quot;uncovered_locs&quot;:[]},&quot;filename&quot;:&quot;src/types/Action.js&quot;,&quot;annotation&quot;:&quot;flow&quot;,&quot;percent&quot;:100}</pre></body></html>

diff --git a/flow-coverage/sourcefiles/src/actions/count.js.html b/flow-coverage/sourcefiles/src/actions/count.js.html
@@ -16,4 +16,4 @@ export const increment = (): Action =&gt; ({
 export const decrement = (): Action =&gt; ({
   type: DECREMENT,
 })
-</textarea></div></div><div class="row centered"><footer>Flow Coverage Report generated by<a href="https://flowtype.org"> flow </a>and<a href="https://github.com/rpl/flow-coverage-report"> flow-coverage-report </a>at Tue Mar 13 2018 00:06:21 GMT+0100 (CET)</footer></div></div><pre id="file-coverage-data" style="display:none;">{&quot;expressions&quot;:{&quot;covered_count&quot;:8,&quot;uncovered_count&quot;:0,&quot;uncovered_locs&quot;:[]},&quot;filename&quot;:&quot;src/actions/count.js&quot;,&quot;annotation&quot;:&quot;flow&quot;,&quot;percent&quot;:100}</pre></body></html>
+</textarea></div></div><div class="row centered"><footer>Flow Coverage Report generated by<a href="https://flowtype.org"> flow </a>and<a href="https://github.com/rpl/flow-coverage-report"> flow-coverage-report </a>at Sun Mar 18 2018 08:42:35 GMT+0100 (CET)</footer></div></div><pre id="file-coverage-data" style="display:none;">{&quot;expressions&quot;:{&quot;covered_count&quot;:8,&quot;uncovered_count&quot;:0,&quot;uncovered_locs&quot;:[]},&quot;filename&quot;:&quot;src/actions/count.js&quot;,&quot;annotation&quot;:&quot;flow&quot;,&quot;percent&quot;:100}</pre></body></html>

diff --git a/flow-coverage/sourcefiles/src/reducer/github.js.html b/flow-coverage/sourcefiles/src/reducer/github.js.html
@@ -39,4 +39,4 @@ const github: GitHub = (state = defaultState, action) =&gt; {
 }
 
 export default github
-</textarea></div></div><div class="row centered"><footer>Flow Coverage Report generated by<a href="https://flowtype.org"> flow </a>and<a href="https://github.com/rpl/flow-coverage-report"> flow-coverage-report </a>at Tue Mar 13 2018 00:06:21 GMT+0100 (CET)</footer></div></div><pre id="file-coverage-data" style="display:none;">{&quot;expressions&quot;:{&quot;covered_count&quot;:33,&quot;uncovered_count&quot;:0,&quot;uncovered_locs&quot;:[]},&quot;filename&quot;:&quot;src/reducer/github.js&quot;,&quot;annotation&quot;:&quot;flow&quot;,&quot;percent&quot;:100}</pre></body></html>
+</textarea></div></div><div class="row centered"><footer>Flow Coverage Report generated by<a href="https://flowtype.org"> flow </a>and<a href="https://github.com/rpl/flow-coverage-report"> flow-coverage-report </a>at Sun Mar 18 2018 08:42:35 GMT+0100 (CET)</footer></div></div><pre id="file-coverage-data" style="display:none;">{&quot;expressions&quot;:{&quot;covered_count&quot;:33,&quot;uncovered_count&quot;:0,&quot;uncovered_locs&quot;:[]},&quot;filename&quot;:&quot;src/reducer/github.js&quot;,&quot;annotation&quot;:&quot;flow&quot;,&quot;percent&quot;:100}</pre></body></html>

diff --git a/flow-coverage/sourcefiles/src/reducer/count.js.html b/flow-coverage/sourcefiles/src/reducer/count.js.html
@@ -24,4 +24,4 @@ const count: Count = (state = 2, action) =&gt; {
 }
 
 export default count
-</textarea></div></div><div class="row centered"><footer>Flow Coverage Report generated by<a href="https://flowtype.org"> flow </a>and<a href="https://github.com/rpl/flow-coverage-report"> flow-coverage-report </a>at Tue Mar 13 2018 00:06:21 GMT+0100 (CET)</footer></div></div><pre id="file-coverage-data" style="display:none;">{&quot;expressions&quot;:{&quot;covered_count&quot;:17,&quot;uncovered_count&quot;:0,&quot;uncovered_locs&quot;:[]},&quot;filename&quot;:&quot;src/reducer/count.js&quot;,&quot;annotation&quot;:&quot;flow&quot;,&quot;percent&quot;:100}</pre></body></html>
+</textarea></div></div><div class="row centered"><footer>Flow Coverage Report generated by<a href="https://flowtype.org"> flow </a>and<a href="https://github.com/rpl/flow-coverage-report"> flow-coverage-report </a>at Sun Mar 18 2018 08:42:35 GMT+0100 (CET)</footer></div></div><pre id="file-coverage-data" style="display:none;">{&quot;expressions&quot;:{&quot;covered_count&quot;:17,&quot;uncovered_count&quot;:0,&quot;uncovered_locs&quot;:[]},&quot;filename&quot;:&quot;src/reducer/count.js&quot;,&quot;annotation&quot;:&quot;flow&quot;,&quot;percent&quot;:100}</pre></body></html>
